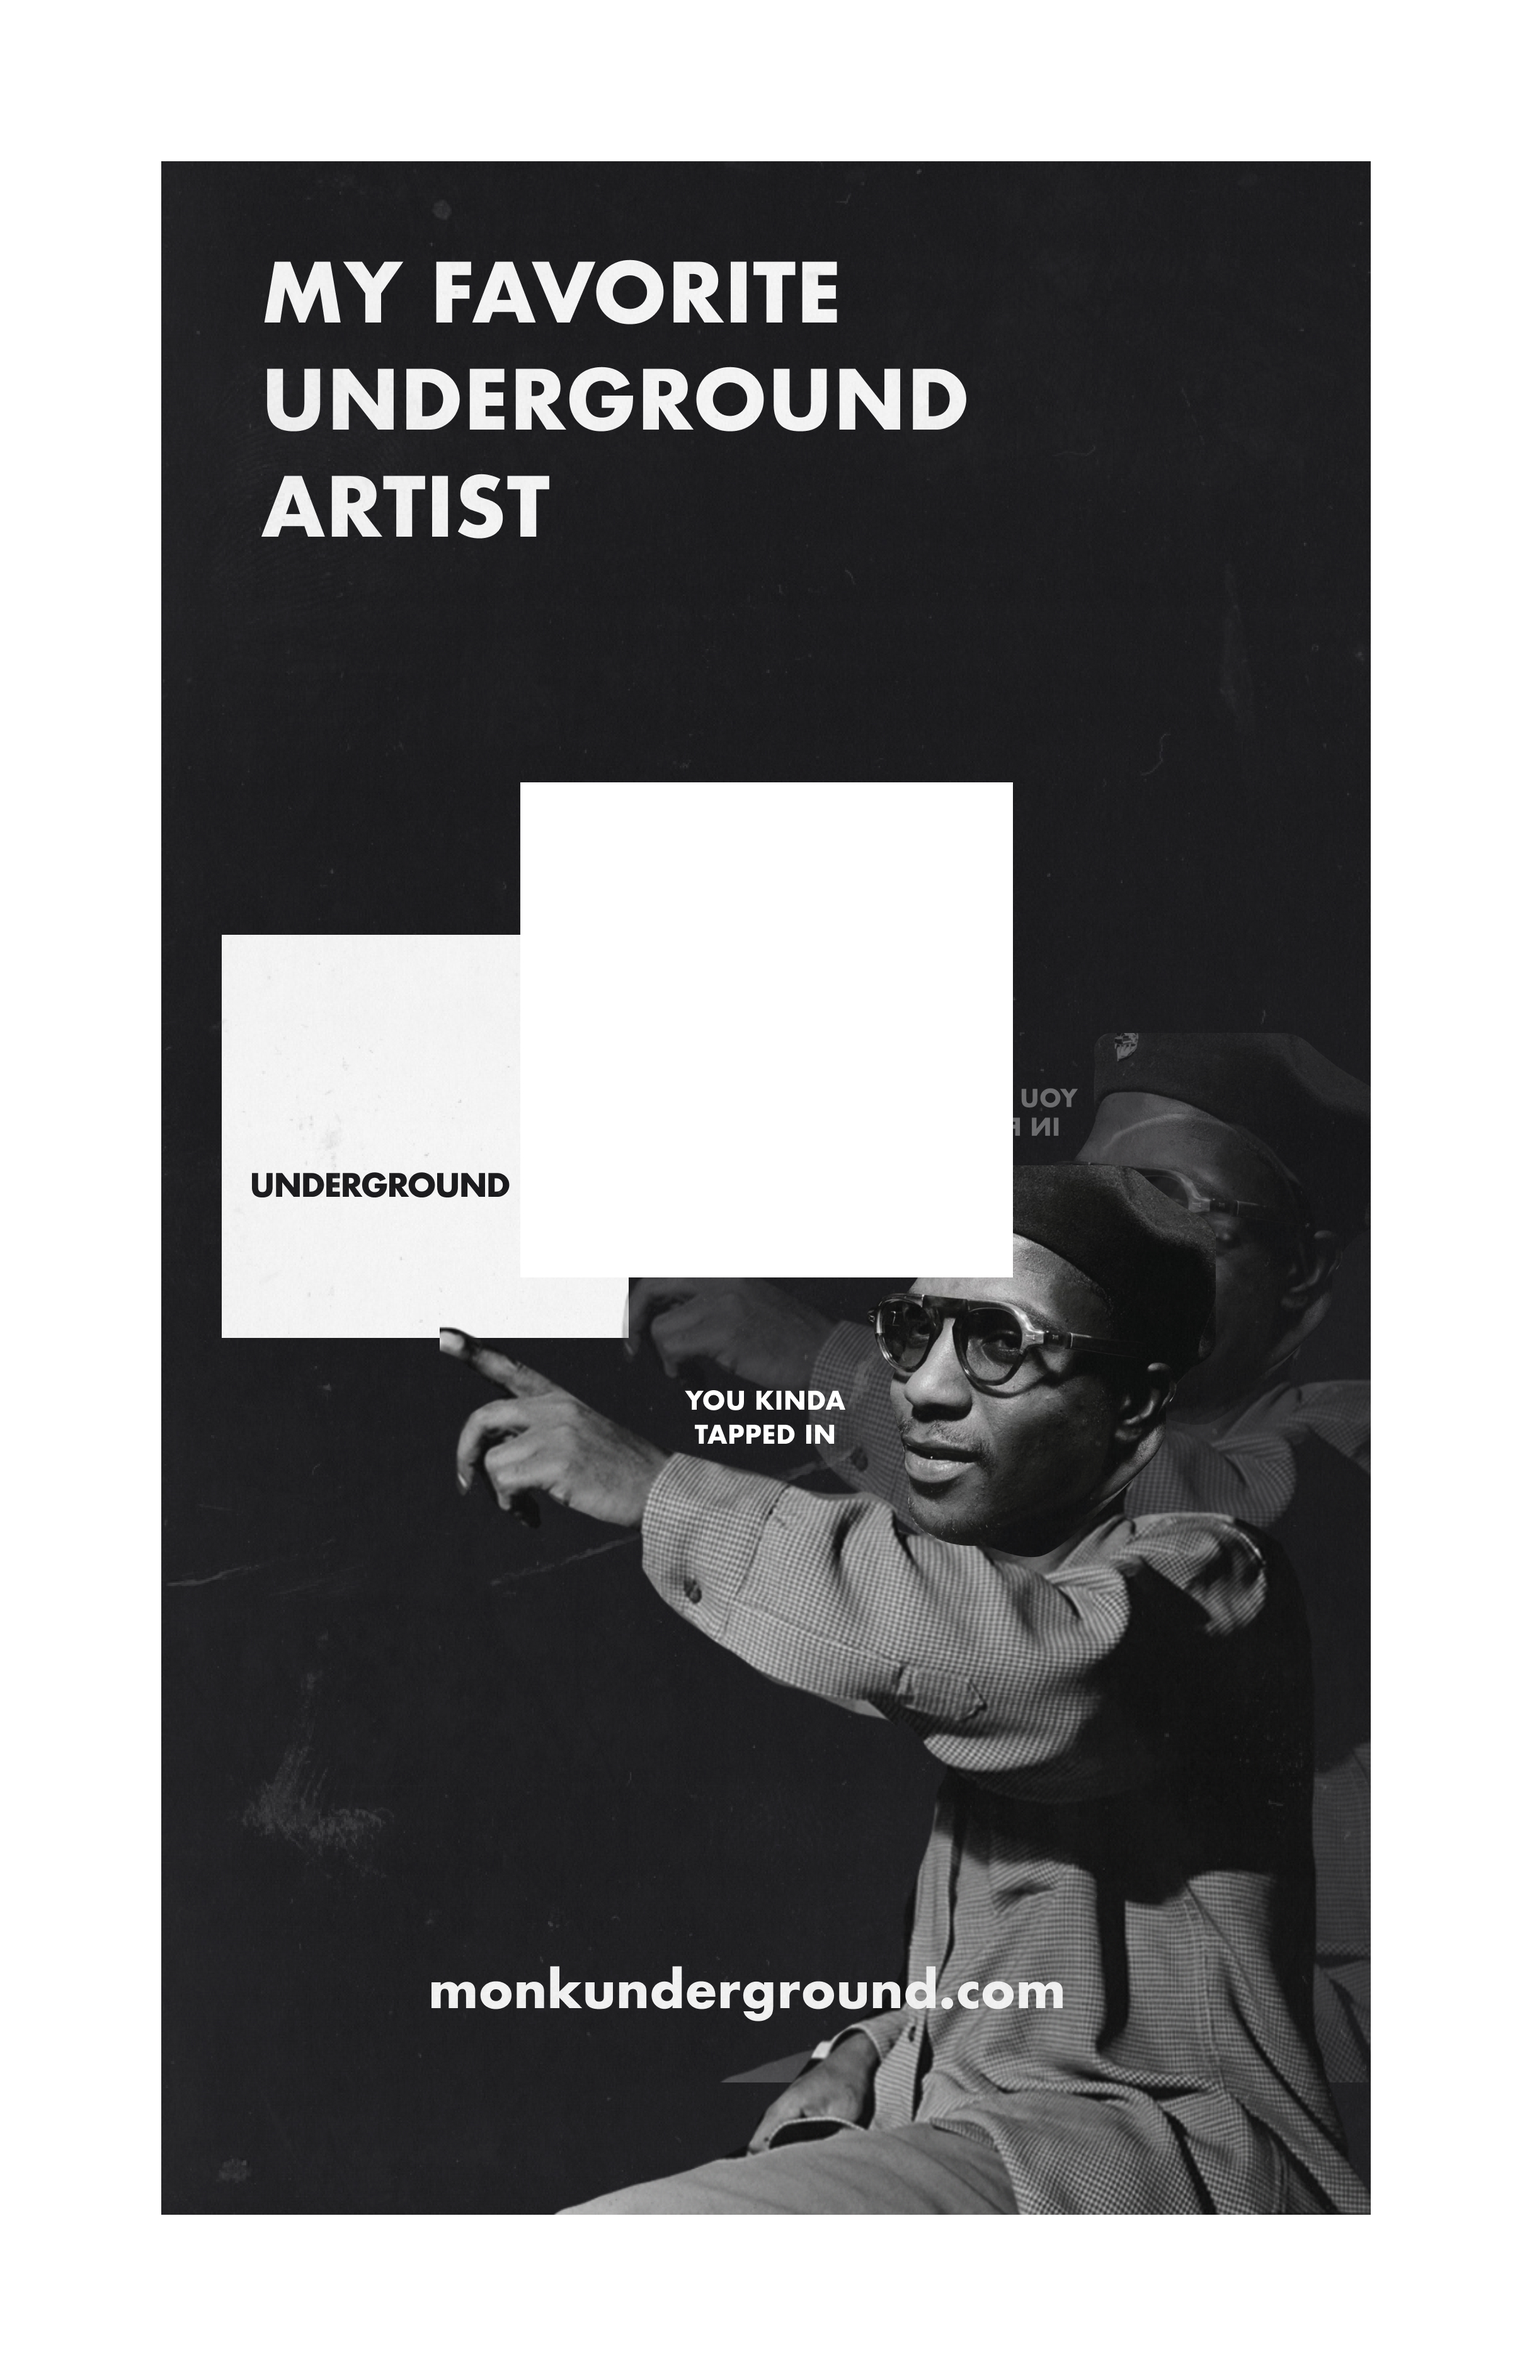
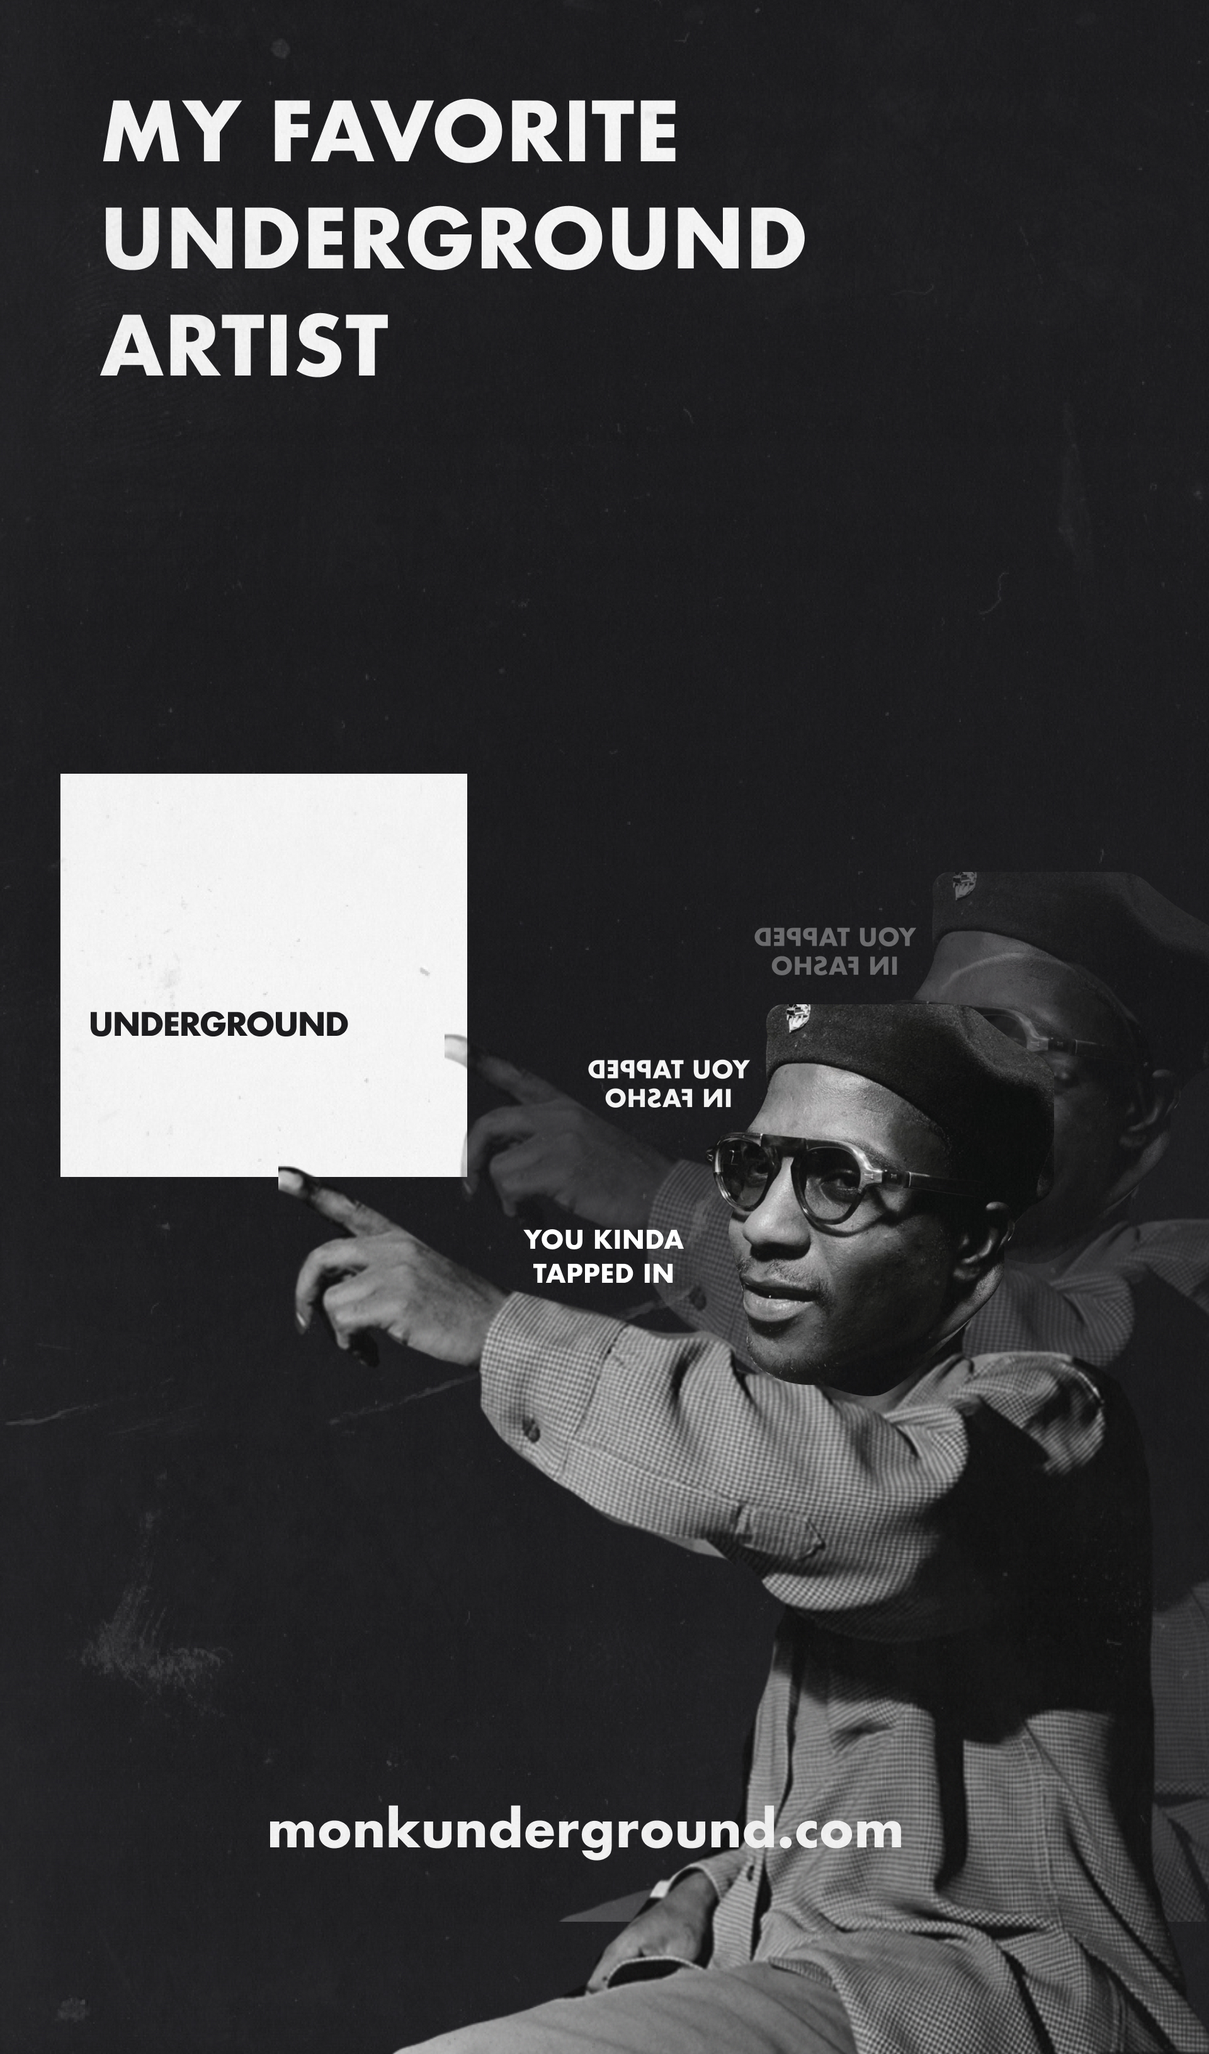
save button

diff --git a/src/App.js b/src/App.js
@@ -1,10 +1,14 @@
-import { useEffect, useState } from 'react';
+import { useEffect, useState, useRef } from 'react';
 import axios from 'axios';
 import './App.css';
 import image from './tapped_in_fasho.jpg';
+import exportAsImage from "./exportAsImage";
+
+
 
 function App() {
 
+    const exportRef = useRef();
     const CLIENT_ID = "d0db6dd1a5ef4b7f8a493a84259ae21c"
     const REDIRECT_URI = "http://localhost:3000"
     const AUTH_ENDPOINT = "https://accounts.spotify.com/authorize"
@@ -55,8 +59,8 @@ function App() {
                             Authorization: `Bearer ${token}`
                         },
                         params: {
-                            limit: 30, 
-                            time_range: "short_term"
+                            limit: 50, 
+                            time_range: "long_term"
                         }
                     })
                     //console.log(data);
@@ -121,33 +125,26 @@ function App() {
     const renderObscure = () => {
         if (obscure.length != 0){
         return (
-
-            <div className='headtext'>
-                <div className='headimage'>
-                    <img src={image} alt="My Top Underground Artist" /> <img/>
-                </div>
-                <div className='selection' key={obscure.id}>
-                    <div className="artistname">
-                        {obscure.name}
+                
+                    <div ref={exportRef} id="myartist" className='headtext'>
+                        <div className='headimage' key={obscure.id}>
+                            <img src={image} alt="My Top Underground Artist" /> <img/>
+                                    <div className="artistname">
+                                        {obscure.name}
+                                    </div>
+                                    <div className='score'>
+                                     {100 - obscure.popularity + "%"}  
+                                    </div>  
+                                        <div className='artistcover'>          
+                                        {obscure.images.length ? <img className='artistcover' width={"30%"} src={obscure.images[0].url} alt=""/> : <div>No Image</div>}
+                                        </div> 
+                        </div>
+                        <button className='save' onClick={() => exportAsImage(exportRef.current, "My Top Underground Artist")}>SHARE</button>
                     </div>
-                    <div className='score'>
-                    {100 - obscure.popularity + "%"}  
-                    </div>  
-
-                    <div class = 'image-container'>
-
-                        <div className='artistcover'>          
-                        {obscure.images.length ? <img className='artistcover' width={"30%"} src={obscure.images[0].url} alt=""/> : <div>No Image</div>}
-                        </div> 
-
-                    </div>
-                </div>
-                {/* <h2>Your Top Artists</h2> */}
-            </div>
-        )
+            )
         }
+          
     }
-        
 
 //    const renderArtists = () => {
 //         return artists.map(artist => (
@@ -164,24 +161,25 @@ function App() {
 
     return (
         <div className="App">
+            
             <header className="App-header">
-                <h1>monk<span className='smaller'>:underground</span>
-                </h1>
-                    {!token ?
-                    <a href={`${AUTH_ENDPOINT}?client_id=${CLIENT_ID}&redirect_uri=${REDIRECT_URI}&response_type=${RESPONSE_TYPE}&scope=${SCOPE}`}>Login to Spotify</a>
-                    :
-                      <button className='logout' onClick={logout}> Logout </button>} 
-                    
+                    <h1>
+                        monk<span className='smaller'>:underground</span>
+                    </h1>
+                        {!token ?
+                        <a href={`${AUTH_ENDPOINT}?client_id=${CLIENT_ID}&redirect_uri=${REDIRECT_URI}&response_type=${RESPONSE_TYPE}&scope=${SCOPE}`}>Login to Spotify</a>
+                        :
+                        <button className='logout' onClick={logout}> Logout </button>} 
+            </header>    
+            <body>        
 
-                        {renderObscure()} 
+                            {renderObscure()} 
 
+                            {/* {renderArtists()} */}
+            </body>    
 
-                        {/* {renderArtists()} */}
-
-
-            </header>
         </div>
     );
 }
 
-export default App; 
+export default App;  

diff --git a/src/App.css b/src/App.css
@@ -1,13 +1,20 @@
 body {
     background-color: #1C1B1F;
+    width: 100%;
+    height: 100%;
+    margin: 0;
+    padding: 0;
+    
 }
 
 .App {
     text-align: center;
     justify-content: center;
     background-color: #1C1B1F;
-    margin: 0% auto;
-    padding: 0%;
+    margin: 0 auto;
+    padding: 0;
+    width: 100%;
+    height: 100%;
 }
 
 h1 {
@@ -15,11 +22,24 @@ h1 {
     text-align: left;
     padding-left: 30px;
     font-family: 'SilversPersonal';
+    font-style: normal;
+    font-weight: normal;
     color: white;
     margin: 0 auto;
     padding-top: 20px;
-    font-size: 45px;
+    padding-bottom: 30px;
+    font-size: 40px;
+    /* transition: transform .1s; Animation */
 }
+
+.smaller {
+    font-size: 23px;
+
+}
+
+/* h1:hover {
+    transform: scale(1.01);
+} */
 
 h2 {
     color: white;
@@ -32,7 +52,6 @@ a {
     border: none;
     color: white;
     padding: 8px 12px;
-    text-align: center;
     text-decoration: none;
     display: inline-block;
     font-size: 12px;
@@ -41,6 +60,7 @@ a {
     font-weight: bold;
     transition-duration: 0.1s;
     margin: 10px;
+    position: relative;
 }
 
 a:hover {
@@ -48,29 +68,6 @@ a:hover {
     color: #1C1B1F;
     cursor: pointer;
 }
-
-.smaller {
-    font-size: 28px;
-
-}
-
-img {
-    margin: 0 auto;
-    background-size: cover;
-    background-repeat: no-repeat;
-    background-position: center center;
-    position: relative;
-    transition: transform .2s; /* Animation */
-    display: grid;
-    width:400px; 
-    height: auto;
-
-}
-
-
-/*img:hover {
-    transform: scale(1.05);
-}*/
 
 .popularity {
     color: white;
@@ -93,6 +90,7 @@ button {
     font-weight: bold;
     transition-duration: 0.1s;
     margin: 10px;
+
 
 }
 
@@ -119,49 +117,88 @@ height: 100%;
 width: 100%;
 }
 
-.selection {
-    color: white;
-    font-weight: bolder;
-    font-size: larger
-}
-
-.shareable {
-height: 50px;
-width: auto;
-}
-
 .headtext {
     position: relative;
+    zoom: 0.8;
+    -moz-transform: scale(0.8);
 }
+
+img {
+    margin: 0 auto;
+    background-size: cover;
+    background-repeat: no-repeat;
+    background-position: center center;
+    position: relative;
+    /* transition: transform .2s; Animation */
+    display: block;
+    width: 400px; 
+    height: auto;
+
+}
+
+/*img:hover {
+    transform: scale(1.05);
+}*/
 
 .artistname {
     color: white;
-    font-family: futura;
+    font-family: 'futura';
     font-weight: bold;
     font-size: large;
+    font-style: normal;
     position: relative;
-    bottom: 505px;
+    bottom: 524px;
+    left: 38px;
+    display: inline-block;
 }
 
 .score {
     color: black;
-    font-family: futura;
+    font-family: "futura";
     font-weight: bolder;
+    font-style: normal;
     font-size: 24pt;
     position: relative;
-    right: 130px; 
-    bottom: 410px;
+    right: 190px; 
+    bottom: 385px;
+    display: inline-block;
+    
 }
 
 .artistcover {
     position: relative;
-    bottom: 271px;
+    bottom: 260px;
     left: 0px;
-    min-width: 165px;
-    min-height: 165px;
-    max-width: 165px;
-    max-height: 165px;
+    min-width: 167px;
+    min-height: 167px;
+    max-width: 167px;
+    max-height: 167px;
     object-fit: cover;
     margin: 0 auto;
    
+}
+
+
+
+.save {
+    position: relative;
+    left: 170px;
+    bottom: 35px
+}
+
+.headimage {
+    height: 679.5px;
+    display: inline-block;
+}
+
+#myartist.headtext {
+    height: 679.5px;
+    width: 400px;
+    display: inline-block;
+}
+
+.App-header {
+   margin: 0 auto;
+   text-align: center;
+   justify-content: 0;
 }

diff --git a/src/exportAsImage.js b/src/exportAsImage.js
@@ -1,0 +1,50 @@
+import html2canvas from "html2canvas";
+
+const exportAsImage = async (element, imageFileName) => {
+  const html = document.getElementsByTagName("html")[0];
+  const body = document.getElementsByTagName("body")[0];
+  let htmlWidth = html.clientWidth;
+  let bodyWidth = body.clientWidth;
+  
+
+  const newWidth = element.scrollWidth - element.clientWidth;
+
+  if (newWidth > element.clientWidth) {
+    htmlWidth += newWidth;
+    bodyWidth += newWidth;
+  }
+
+  html.style.width = htmlWidth + "px";
+  body.style.width = bodyWidth + "px";
+
+  const canvas = await html2canvas(element, { 
+    logging: true, 
+    allowTaint: false,
+     useCORS: true,
+     backgroundColor: null,
+     scale: 3,
+     letterRendering: true,
+     
+
+});
+  const image = canvas.toDataURL("image/jpeg", 1.0);
+  downloadImage(image, imageFileName);
+  html.style.width = null;
+  body.style.width = null;
+};
+
+const downloadImage = (blob, fileName) => {
+  const fakeLink = window.document.createElement("a");
+  fakeLink.style = "display:none;";
+  fakeLink.download = fileName;
+
+  fakeLink.href = blob;
+
+  document.body.appendChild(fakeLink);
+  fakeLink.click();
+  document.body.removeChild(fakeLink);
+
+  fakeLink.remove();
+};
+
+export default exportAsImage;

diff --git a/src/index.js b/src/index.js
@@ -2,6 +2,7 @@ import React from 'react';
 import ReactDOM from 'react-dom/client';
 import './index.css';
 import App from './App';
+import './fonts/SilversPersonalUseRegular-ZV22x.ttf'
 
 const root = ReactDOM.createRoot(document.getElementById('root'));
 root.render(

diff --git a/src/index.html b/src/index.html
@@ -1,0 +1,5 @@
+<!DOCTYPE html>
+
+<header>
+    <link href="https://www.fontspace.com/silvers-font-f66186" rel="stylesheet"> 
+</header>
